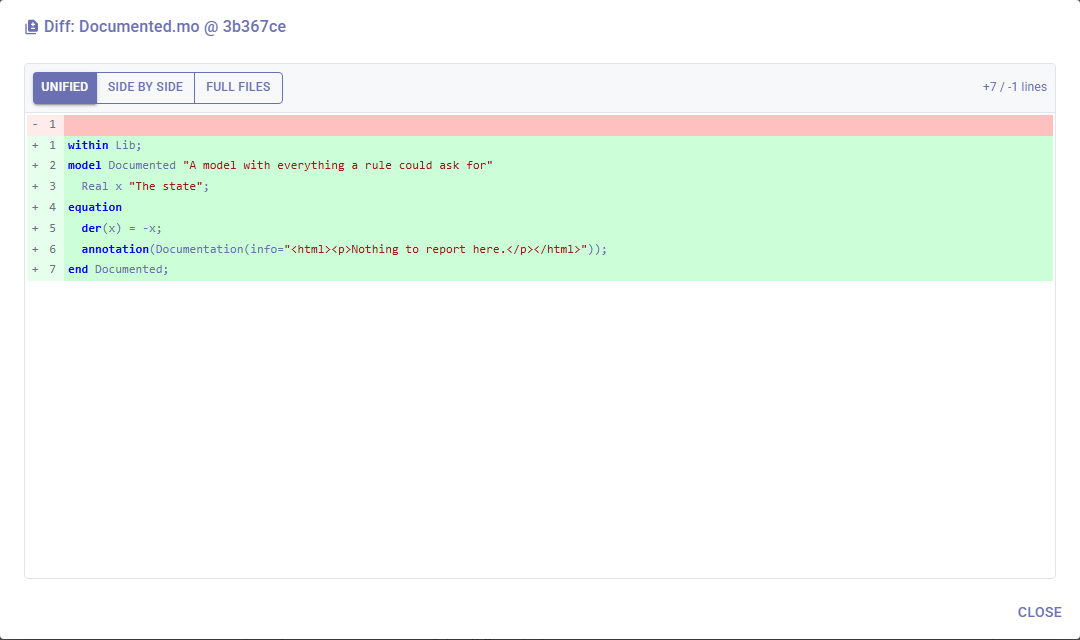
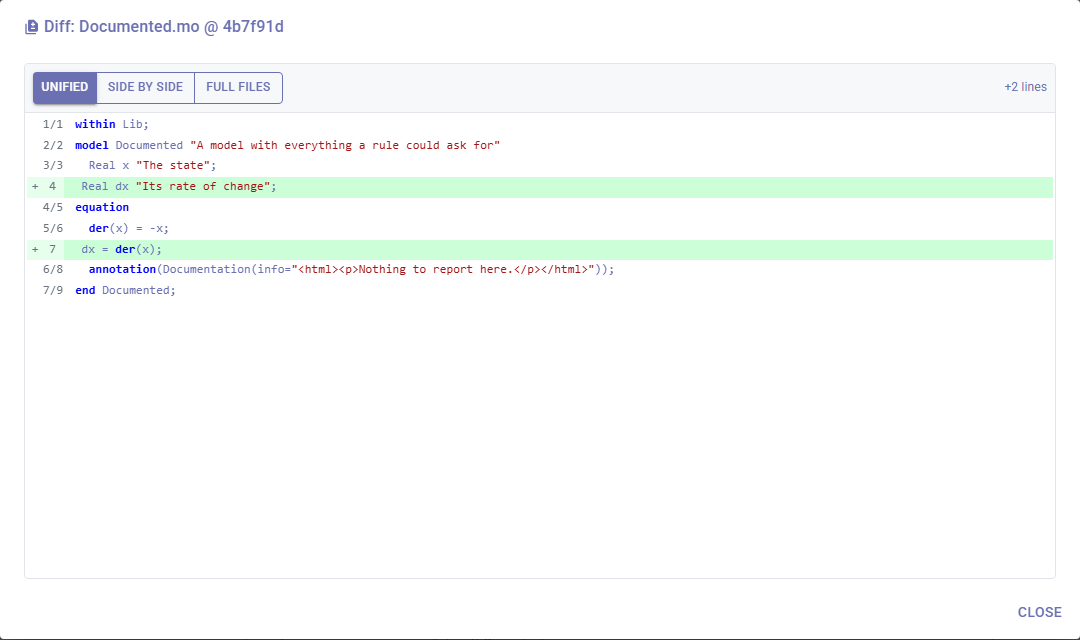
The revision diff compared the wrong two things for an added file (B155)
B155 was filed as a question - "the revision diff may be comparing against
nothing" - after a documentation screenshot showed the first commit of
Documented.mo reporting +7 / -1 and listing that revision's seven lines as
additions, when the working copy has two more.

RevisionDiffDialog chose its two sides by the file's change type. For an Added
file it put string.Empty on the left and the *revision's* content on the right,
so the pane labelled "Working Copy" showed the revision and the pane labelled
"Revision N" showed nothing. That is the diff of the commit itself: a reasonable
thing to want, and not what this dialog offers. Its title, its pane labels and
its own "File is identical between revision N and the working copy" message all
promise revision-against-working-copy, and the code disagreed with all three.

The Deleted branch it also carried was dead - a file absent from the working
copy gives an empty right-hand side through workingCopyContent being null,
without a branch to say so - and where it was not dead it was wrong, hiding the
current content of a file deleted and later re-added.

The choice is now SidesFor(revisionContent, workingCopyContent), which does not
take the change type at all, so the bug is not representable rather than merely
fixed. RevisionDiffSidesTests pins what is left, because it is the contract
three pieces of the dialog's own text promise a reader.

The -1 was the second half of the report and has the same root: "".Split('\n')
[…]

Changed region(s): [[0.0, 0.125, 0.9778, 0.4688], [0.2139, 0.0312, 0.275, 0.0625]]

diff --git a/MLQT.Shared/Dialogs/RevisionDiffDialog.razor.cs b/MLQT.Shared/Dialogs/RevisionDiffDialog.razor.cs
@@ -30,6 +30,33 @@ public partial class RevisionDiffDialog
     private string? _errorMessage;
     private bool _isLoading = true;
 
+    /// <summary>
+    /// Which content goes on which side: the revision on the left, the working copy on the right.
+    /// </summary>
+    /// <remarks>
+    /// <para><b>The change type does not enter into it</b>, and that is the fix for B155. This dialog
+    /// compares one revision against the working copy - its title says <c>@ &lt;revision&gt;</c>, its
+    /// panes are labelled "Revision N" and "Working Copy", and its own empty-diff message says "File
+    /// is identical between revision N and the working copy". Three statements of the same contract.
+    /// </para>
+    ///
+    /// <para>The code disagreed with all three for an <b>added</b> file: it put <c>string.Empty</c>
+    /// on the left and the <i>revision's</i> content on the right, so the pane labelled "Working
+    /// Copy" showed the revision and the pane labelled "Revision N" showed nothing. Against the first
+    /// commit of a file that was changed again later, it reported that revision's lines as additions
+    /// and never mentioned the lines the working copy actually has - which is what B155 saw, and why
+    /// it read as "comparing against nothing". That is the diff of the commit itself, a reasonable
+    /// thing to want and not what this dialog offers.</para>
+    ///
+    /// <para>The <c>Deleted</c> case it also carried was dead: a file deleted at that revision is
+    /// absent from the working copy, so the right-hand side is empty by way of
+    /// <c>workingCopyContent</c> being null, without a branch to say so. Where it was not dead it was
+    /// wrong - a file deleted then re-added would have had its current content hidden.</para>
+    /// </remarks>
+    internal static (string Original, string Modified) SidesFor(
+        string? revisionContent, string? workingCopyContent)
+        => (revisionContent ?? string.Empty, workingCopyContent ?? string.Empty);
+
     protected override async Task OnInitializedAsync()
     {
         try
@@ -70,21 +97,7 @@ public partial class RevisionDiffDialog
                 workingCopyContent = await ModelicaFileEncoding.ReadAllTextOnlyAsync(fullPath);
             }
 
-            switch (ChangeType)
-            {
-                case VcsChangeType.Added:
-                    _originalContent = string.Empty;
-                    _modifiedContent = revisionContent ?? string.Empty;
-                    break;
-                case VcsChangeType.Deleted:
-                    _originalContent = revisionContent ?? string.Empty;
-                    _modifiedContent = string.Empty;
-                    break;
-                default:
-                    _originalContent = revisionContent ?? string.Empty;
-                    _modifiedContent = workingCopyContent ?? string.Empty;
-                    break;
-            }
+            (_originalContent, _modifiedContent) = SidesFor(revisionContent, workingCopyContent);
 
             if (revisionContent == null && workingCopyContent == null)
             {

diff --git a/MLQT.Shared.Tests/Dialogs/RevisionDiffSidesTests.cs b/MLQT.Shared.Tests/Dialogs/RevisionDiffSidesTests.cs
@@ -1,0 +1,67 @@
+using MLQT.Shared.Dialogs;
+using Xunit;
+
+namespace MLQT.Shared.Tests.Dialogs;
+
+/// <summary>
+/// Which side of the revision diff shows what (B155).
+/// </summary>
+/// <remarks>
+/// <para>The dialog compares <b>one revision against the working copy</b>, and says so three times:
+/// in its title, in its pane labels, and in the message it shows when the two match. The sides used
+/// to be chosen by the file's change type instead, and for an <b>added</b> file that put the
+/// revision's content in the pane labelled "Working Copy" and nothing in the pane labelled
+/// "Revision N" - so the first commit of a file changed later reported that revision's lines as
+/// additions and never showed the lines the working copy actually has.</para>
+///
+/// <para><b>The change type is no longer a parameter</b>, which is the real fix: the mapping cannot
+/// depend on something it is not given. These pin what is left, because it is the contract three
+/// pieces of the dialog's own text promise a reader.</para>
+/// </remarks>
+public class RevisionDiffSidesTests
+{
+    private const string AtRevision = "model M\n  Real x;\nend M;";
+    private const string InWorkingCopy = "model M\n  Real x;\n  Real y;\nend M;";
+
+    [Fact]
+    public void TheRevisionIsOnTheLeftAndTheWorkingCopyOnTheRight()
+    {
+        var (original, modified) = RevisionDiffDialog.SidesFor(AtRevision, InWorkingCopy);
+
+        Assert.Equal(AtRevision, original);
+        Assert.Equal(InWorkingCopy, modified);
+    }
+
+    [Fact]
+    public void AFileAddedInThatRevisionStillComparesAgainstTheWorkingCopy()
+    {
+        // The B155 case. An added file has content at the revision that added it, so there is a real
+        // comparison to make - and the two lines the working copy has gained since are the answer.
+        // The bug put string.Empty on the left and the revision on the right, which is the diff of
+        // the commit rather than the diff this dialog offers, and mislabelled both panes doing it.
+        var (original, modified) = RevisionDiffDialog.SidesFor(AtRevision, InWorkingCopy);
+
+        Assert.NotEqual(string.Empty, original);
+        Assert.NotEqual(AtRevision, modified);
+    }
+
+    [Fact]
+    public void AFileNoLongerInTheWorkingCopyHasAnEmptyRightHandSide()
+    {
+        // A file deleted since that revision: null is what the caller passes when File.Exists said
+        // no, and it needs no branch of its own to come out empty.
+        var (original, modified) = RevisionDiffDialog.SidesFor(AtRevision, null);
+
+        Assert.Equal(AtRevision, original);
+        Assert.Equal(string.Empty, modified);
+    }
+
+    [Fact]
+    public void AFileNotPresentAtThatRevisionHasAnEmptyLeftHandSide()
+    {
+        var (original, modified) = RevisionDiffDialog.SidesFor(null, InWorkingCopy);
+
+        Assert.Equal(string.Empty, original);
+        Assert.Equal(InWorkingCopy, modified);
+    }
+}

diff --git a/Design/roadmap.md b/Design/roadmap.md
@@ -648,7 +648,7 @@ B84–B86 the seventh, B87–B88 the eighth, B89–B90 the ninth, B91–B92 the 
 | B152 | **Every screenshot in the documentation predates every feature in it** | doc review 2026-09-11 | ⭐⭐ | M | All 53 images under `Documentation/Images` were committed on **2026-03-17**, in the initial public commit, and not one has been touched since. Everything phases 1-6 added is therefore absent from the pictures — the Metrics tab, baseline status on findings, suppression, the coverage trend — and phase 7 replaced the host underneath them, so the window they show is MAUI's. The text is in far better shape than the images: an audit against the code found **every one of the 31 rule ids documented**, every CLI option in `cli.md` (and none it does not accept), and every settable style property in `settings-reference.md`. **The mechanism to regenerate them exists and is proven.** `MLQT.Journeys/DocumentationScreenshots` drives the real components in a real browser through `MLQT.TestHost` — the same apparatus the journeys use — and writes a PNG per tab when `MLQT_DOC_SCREENSHOTS` names a directory. The Settings tab already comes out usable. So the pictures become reproducible, free of personal data and local paths, and regenerable when the UI changes rather than re-taken by hand. **✅ The state setup is done (2026-09-11).** The harness now does what a user does: it writes the repository's `.mlqt/settings.json` with three rules on, creates a project, adds the repository, loads the libraries it discovers, runs the check and selects a class — and the Code Review page comes out showing real findings ("2 Findings to review", `Lib.badly_named` missing a description and not PascalCase) produced by the application's own pipeline from its own configuration. Four steps were needed and each was a fact about the product worth knowing: adding a repository *discovers* libraries but does not load them, loading them does not check them, MLQT ships with every rule off, and in repository mode `MainLayout` renders one `LibraryBrowser` per repository — which is why loading a library through `ILibraryDataService` alone left **every page showing it except the tree** — the Metrics tab reports the 4 classes correctly while the left-hand browser stays blank, so what is missing is whatever a user's project and repository give that panel, not the load itself. Each image still needs its own arrangement: a diff open, a snapshot recorded for the trend, a dialog on screen. **✅ The fixture library is enriched (2026-09-11)**, which was the next limit: four flat classes that referenced nothing and used no files meant the Dependencies tab correctly reported "No models will be affected" and External Resources correctly reported none. `LibraryFixture` now writes fourteen classes over four sub-packages that use each other three levels deep, and every resource reference kind MLQT recognises — a `Bitmap` in an icon, `loadResource` defaults, a `loadSelector` dialog annotation, a `modelica://` image in documentation and the four external-function annotations — with the files they point at written to `Resources/`. One is deliberately absent, because "missing" is a state that page exists to show. The External Resources tab now comes out with its type filters, its tree and a **Missing (1)** warning chip, and the Metrics tab reports 14 classes across package/model/function/connector. Two facts the enrichment taught: resource *edges* are built by the dependency pass while the parse trees are in hand, so `AnalyzeResourcesAsync` must run after `EnsureDependenciesAnalyzedAsync` or it indexes an empty graph; and the tree is lazy, so clicking a node's label selects it and leaves its children out of the DOM entirely — the arrow is what loads them. Transient snackbars have to be waited out or dismissed, or they sit across the picture. **Two kinds of image this cannot produce**, and they are the ones phase 7 changed: anything showing the *window* — title bar, icon, taskbar, a native file dialog — because the test host is a browser, and nothing can drive the Photino window automatically (7a says why: a CDP-driven WebView2 is work that cannot be carried to WebKitGTK). Those stay photographs. Noted alongside: `getting-started-10.png` and `settings-reference-2.png` are on disk and referenced by nothing, so either a section lost its picture or the picture outlived its section. **✅ 41 of the 53 images are regenerated (2026-09-11)**, from the real UI, and the captions that no longer described the picture under them were rewritten with them. `DocumentationScreenshots` now walks the application the way the documentation does: every tab, the close-ups (the toolbars, the repository header rows, the tree with its status chips), both views of the left panel, the Edit Repository Details dialog and three sections of it, the Add Repository dialog in both of its tabs, and eight of the ten Git dialogs. Each is written as the file the markdown already links to, so nothing in the text had to move. **What stays a photograph, and why**: the two Dymola pictures (`code-review-4`, and `code-review-5` — the Finding Details dialog opens only for a finding carrying Details, which a style rule does not produce), the six SVN ones (no server), `settings-reference-4` (the SVN branch directories section is only rendered for an SVN repository), and `git-operations-6`. That last one was **tried and abandoned with something learnt**: the merge dialog's ready-to-merge phase needs a clean working copy, and committing the fixture's change through git at the very end is not enough, because MLQT holds the working-copy status it last read and only a VCS operation *in the application* makes it read again — reasonable behaviour, and no way through from a screenshot run. Two that looked unreachable were reached: `settings-reference-7` (the fixture gained `Lib.Untidy`, an import after a declaration and three public sections, and the repository's settings turned the two layout rules on, so the page reports "does not have its import statements before the rest of the class definition" and "contains more than 1 public section") and `file-monitoring-1` (the monitor is started and three files are edited on disk from outside MLQT, which is what the red badge counts). And anything showing the window frame. **Two fixture facts made the rest possible**: a second commit, so the history is a history and one file in it is modified rather than added; and a second branch, so the switch-branch, merge and pull-request dialogs have somewhere to point. And one path fact: MLQT prints the full path of what it describes, so the fixture repository is written under the shared documents folder for these runs — a temp directory named after a GUID under a developer's profile would have gone into the manual. |
 | B153 | **The MCP server grew 22 tools since anything counted them** | doc review 2026-09-11 | ⭐ | S | `Documentation/mcp-server.md` said "60+ tools"; there are **82**. The groups it lists are still right and the full list it points at — `MLQT.McpServer/README.md` — names all but one of them, so this was a number going stale rather than a capability going undocumented. **✅ fixed (2026-09-11)**, along with `MLQT_PHOTINO_LOG`, the desktop host's own logging switch, which nothing told a user about — it is now in `troubleshooting.md` beside `MLQT_LOG_CONSOLE`, with the reason it is silent by default. **Still open: `GetServerInfo` is in neither document.** A tool an agent can call and no document mentions is the shape this backlog keeps naming, and the count above is only correct until the next tool lands — so the durable fix is a test over the tool list, the way `RuleCatalog` is held to its docs. |
 | B154 | **A journey fails about one full-suite run in four, always the same one** | ✅ fixed 2026-09-11 | ⭐⭐ | S | `TabNavigationJourney.MovingThroughEveryTabAndBack_RaisesNothing` timed out after 30s clicking a tab, and Playwright reported the element "visible, enabled and stable" while the click never completed. **The trace named it** (B148's first use): the click was intercepted by a `mud-overlay-scrim` belonging to a `mud-dialog-container` — a **modal progress dialog**, covering the tab strip. The dialog is the product working correctly. Opening the **Metrics** tab starts the deferred analysis if any class is loaded (`MetricsDashboard.EnsureAnalysisStarted`), `MainLayout` raises its non-closable "Running style checking" dialog while that runs, and the *next* click — the fifth tab, Settings — lands on the scrim. Nothing a test can do closes it; it closes when the work finishes. **Why it was intermittent and why the suite mattered**: journeys share one host, and `AppState` and `ILibraryDataService` are singletons, so whether the Metrics tab finds anything loaded — and whether `HasStyleCheckingRun` is already set — depends entirely on what ran before. That is also why the journey never failed on its own. **The fix is to wait rather than to force**: `ShellReadiness.WaitUntilClickableAsync` moves the pointer off the strip, waits for any popover to close and then waits for the scrim to go, which is what a user does. Forcing the click would have sailed through a real overlay too, and that is a defect worth failing on. One helper now, in place of the private `DismissTooltipsAsync` that `TabNavigationJourney` and `SettingsJourney` each had: both were right about tooltips and neither knew about dialogs. **Six consecutive full-suite runs green** afterwards, against about one in three or four before; two of the six took twice as long, which is the wait doing its job. |
-| B155 | **The revision diff may be comparing against nothing** | doc screenshots 2026-09-11 | ⭐⭐ | S | Found by photographing it. In the VCS History dialog, clicking a file in a commit's changed-files popover opens `Diff: <file> @ <revision>`, which compares that revision against the working copy. Against the **first** commit of a file the fixture later changed, the dialog reports `+7 / -1 lines` and lists the *first* revision's seven lines as additions — the two lines the second commit added are not in it at all, and the working copy is where they live. Either the working-copy side is not being read, or the two sides are the wrong way round; against an unchanged file it says "File is identical", which is right and says nothing about which. **A question, not a diagnosis**: nobody has stepped through `ShowFileDiffAsync` yet. Worth doing before `git-operations-10.png` is trusted as documentation, because that picture is now this behaviour. |
+| B155 | **The revision diff may be comparing against nothing** | doc screenshots 2026-09-11 | ⭐⭐ | S | Found by photographing it. In the VCS History dialog, clicking a file in a commit's changed-files popover opens `Diff: <file> @ <revision>`, which compares that revision against the working copy. Against the **first** commit of a file the fixture later changed, the dialog reports `+7 / -1 lines` and lists the *first* revision's seven lines as additions — the two lines the second commit added are not in it at all, and the working copy is where they live. Either the working-copy side is not being read, or the two sides are the wrong way round; against an unchanged file it says "File is identical", which is right and says nothing about which. **A question, not a diagnosis**: nobody has stepped through `ShowFileDiffAsync` yet. Worth doing before `git-operations-10.png` is trusted as documentation, because that picture is now this behaviour. **✅ fixed 2026-09-15.** `RevisionDiffDialog` chose its two sides by the file's **change type**, and for an `Added` file put `string.Empty` on the left and the *revision's* content on the right — so the pane labelled "Working Copy" showed the revision and the pane labelled "Revision N" showed nothing. That is the diff of the commit itself, which is a reasonable thing to want and not what this dialog offers: its title, its pane labels and its own "File is identical between revision N and the working copy" message all promise revision-against-working-copy, and the code disagreed with all three. The `Deleted` branch it also carried was dead — a file absent from the working copy gives an empty right-hand side without a branch to say so — and where it was not dead it was wrong, hiding the current content of a file deleted and re-added. The choice is now `SidesFor(revisionContent, workingCopyContent)`, which **does not take the change type**, so the bug is no longer representable; `RevisionDiffSidesTests` pins the mapping. `git-operations.md` had recorded the defect as intended behaviour ("for added files: left side is empty"), contradicting the two bullets above it, and is corrected. The regenerated picture now reports **+2 lines** — the two the second commit added — where it reported +7 / -1 before. |
 | B156 | **A bUnit test found an element in one render and clicked it in the next** | ✅ fixed 2026-09-11 | ⭐⭐ | S | `DialogResultTests.CreateBranch_Cancelled_ReportsCancelled` failed the **Linux** libraries job and passed on Windows in the same run: `UnknownEventHandlerIdException: there is no event handler with ID '12' associated with the 'onclick' event`. **Not a product defect and not a timing accident to be re-run**: an element found on the test thread carries the event-handler ids of the render it was taken from, and `CreateBranchDialog` re-renders on its own when its background branch load returns. Find outside the dispatcher, act inside it, and the two can disagree — which is what bUnit's own exception text tells you to fix by holding the dispatcher across both. The helpers now find the element *inside* `InvokeAsync`. **The same shape was in `LibraryBrowserLazyLoadTests`**, which had never failed: a lazily loaded tree re-renders when its server data arrives, and its two click helpers found on the test thread too. Fixed with it, because this is the third time in this repository that one rule has lived in two places and only one copy knew something. **Why it surfaced now**: nothing in the commit that failed touched it — the branch's own changes were documentation images and journey code. A slower runner is enough. |
 | B157 | **The test host linked no scoped CSS, so every `.razor.css` rule was missing from the documentation images** | ✅ fixed 2026-09-15 | ⭐⭐ | S | Reported as "the side-by-side diff screenshot shows Modified *below* Original". Not a layout bug: a component's scoped stylesheet is delivered through the **host's** bundle, which is named after the host assembly and therefore cannot live in `HostAssetManifest` — each host adds its own. `MLQT.Photino` links `MLQT.Photino.styles.css`; `MLQT.TestHost` linked nothing, and `MLQT.TestHost.styles.css` was served (HTTP 200, importing MLQT.Shared's bundle) and never requested. **The failure is invisible until you look at a picture**: the page renders, MudBlazor is styled, and the code viewer's syntax colours are right because `CodeReview` injects those as a runtime `<style>` block — so the one part of the code display that is *not* scoped went on working. What disappeared was every rule in a `.razor.css`: `DiffViewer` lost `display: flex` and stacked its panes, the added/removed colours went, and the settings rule rows lost their spacing. It reached **30 committed images**, because the screenshots are generated through this host. `HostAssetManifestTests` could not have caught it — it filtered `.styles.css` out and its host list is `wwwroot/index.html` files, which the test host does not have. Now `HostAssetManifest.ScopedCssBundleFor(host)` names it, the manifest test asserts each host page links its own, and `MLQT.Journeys/ScopedCssJourney` asks the browser whether the rules are loaded at all — deliberately *not* using a `CodeViewer` selector as its canary, since those are shadowed by the injected block and would have passed throughout. |
 | B158 | **The Linux build could not be run on a Linux machine, and then could not be run at all** | ✅ fixed 2026-09-15 | ⭐⭐ | M | `package-deb.sh` is shell because `dpkg-deb` exists only on a Debian machine and pwsh is not on a plain Ubuntu desktop — "a packaging script you cannot run on the machine that makes the package is the wrong trade". That argument was never applied to the script that **produces the tree it packages**: `package-deb.sh` failed with *"run build/publish-tools.ps1 first"*, so the Linux half needed pwsh after all and `installation.md` told a Linux user to run a PowerShell script three sections after explaining that the runtime is bundled to avoid Microsoft's apt feed. Nobody hit it because `ubuntu-latest` ships pwsh. Converted to `build/publish-tools.sh`, reusing the patterns `package-deb.sh` had already proven; two things it had not: `mkfifo` under Git Bash makes an MSYS fifo a native `.exe` cannot read from (so the MCP handshake returned nothing), and holding the pipe open with a `sleep` costs the full timeout on every publish (polling the server's own output makes it 0.4s). **Then the shell script shipped `100644`** and the first release run on the branch died with `Permission denied` (exit 126) before a line of it ran, while the Windows job of the same run passed — Windows ignores the execute bit, `core.fileMode` is false there, and the mode is invisible on the machine the script was written on. It was set once, lost before the commit, and reported fixed on the strength of being *staged*. The workflow now invokes all three scripts through `bash`, so the bit cannot decide whether a release builds, and `DebianPackageTests.EveryShellScriptTheReleaseWorkflowRunsIsExecutable` asks **git** for the mode, because the file system is the thing that cannot answer on Windows. |

diff --git a/Documentation/git-operations.md b/Documentation/git-operations.md
@@ -369,7 +369,7 @@ After checkout:
 Clicking on any changed file opens the **Revision Diff** dialog, which shows a side-by-side comparison:
 - **Left side**: The file content at the selected revision
 - **Right side**: The current working copy content
-- For **added** files: left side is empty
-- For **deleted** files: right side is empty
+- For **added** files: the left side is the file as that revision added it. An added file has content at the revision that added it, so there is still a comparison to make — if it has changed since, the difference is what you see
+- For **deleted** files: the right side is empty, because the file is no longer in the working copy
 
 ![Screenshot: The Revision Diff dialog, titled with the file and the short revision id it is comparing against. Unified, side-by-side and full-file views are offered, the line count of the change is shown, and added and removed lines are marked.](Images/git-operations-10.png)
